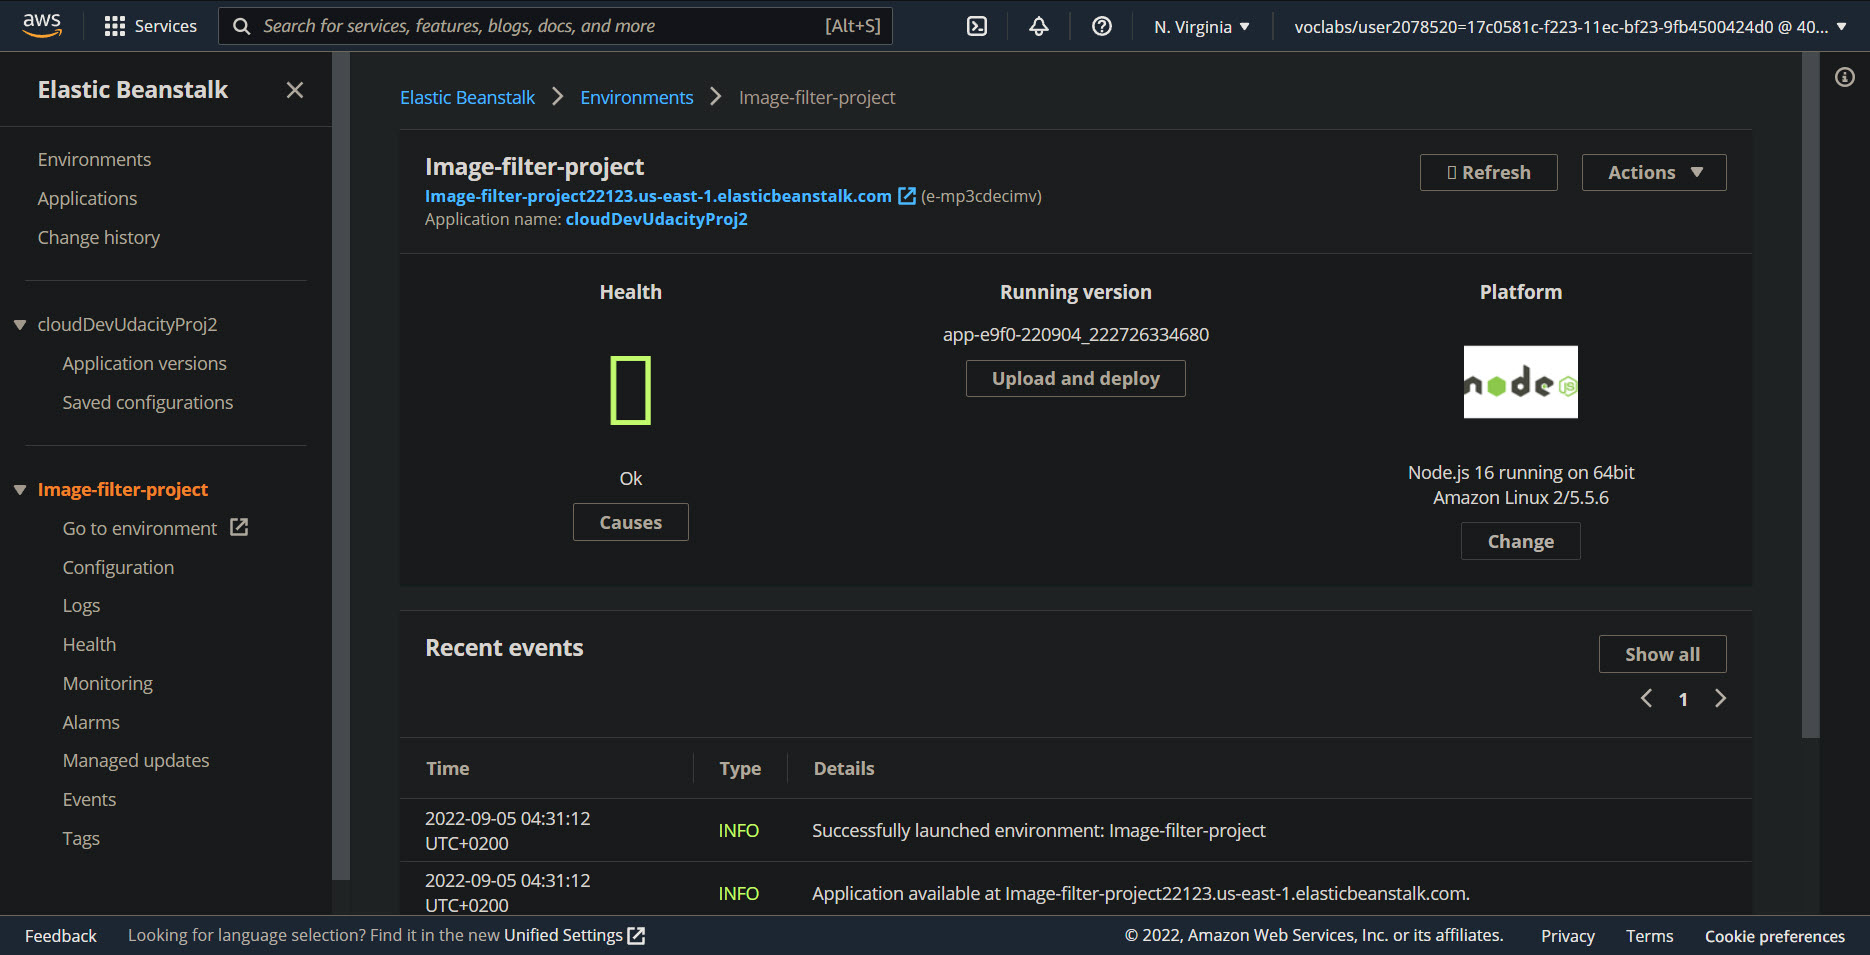
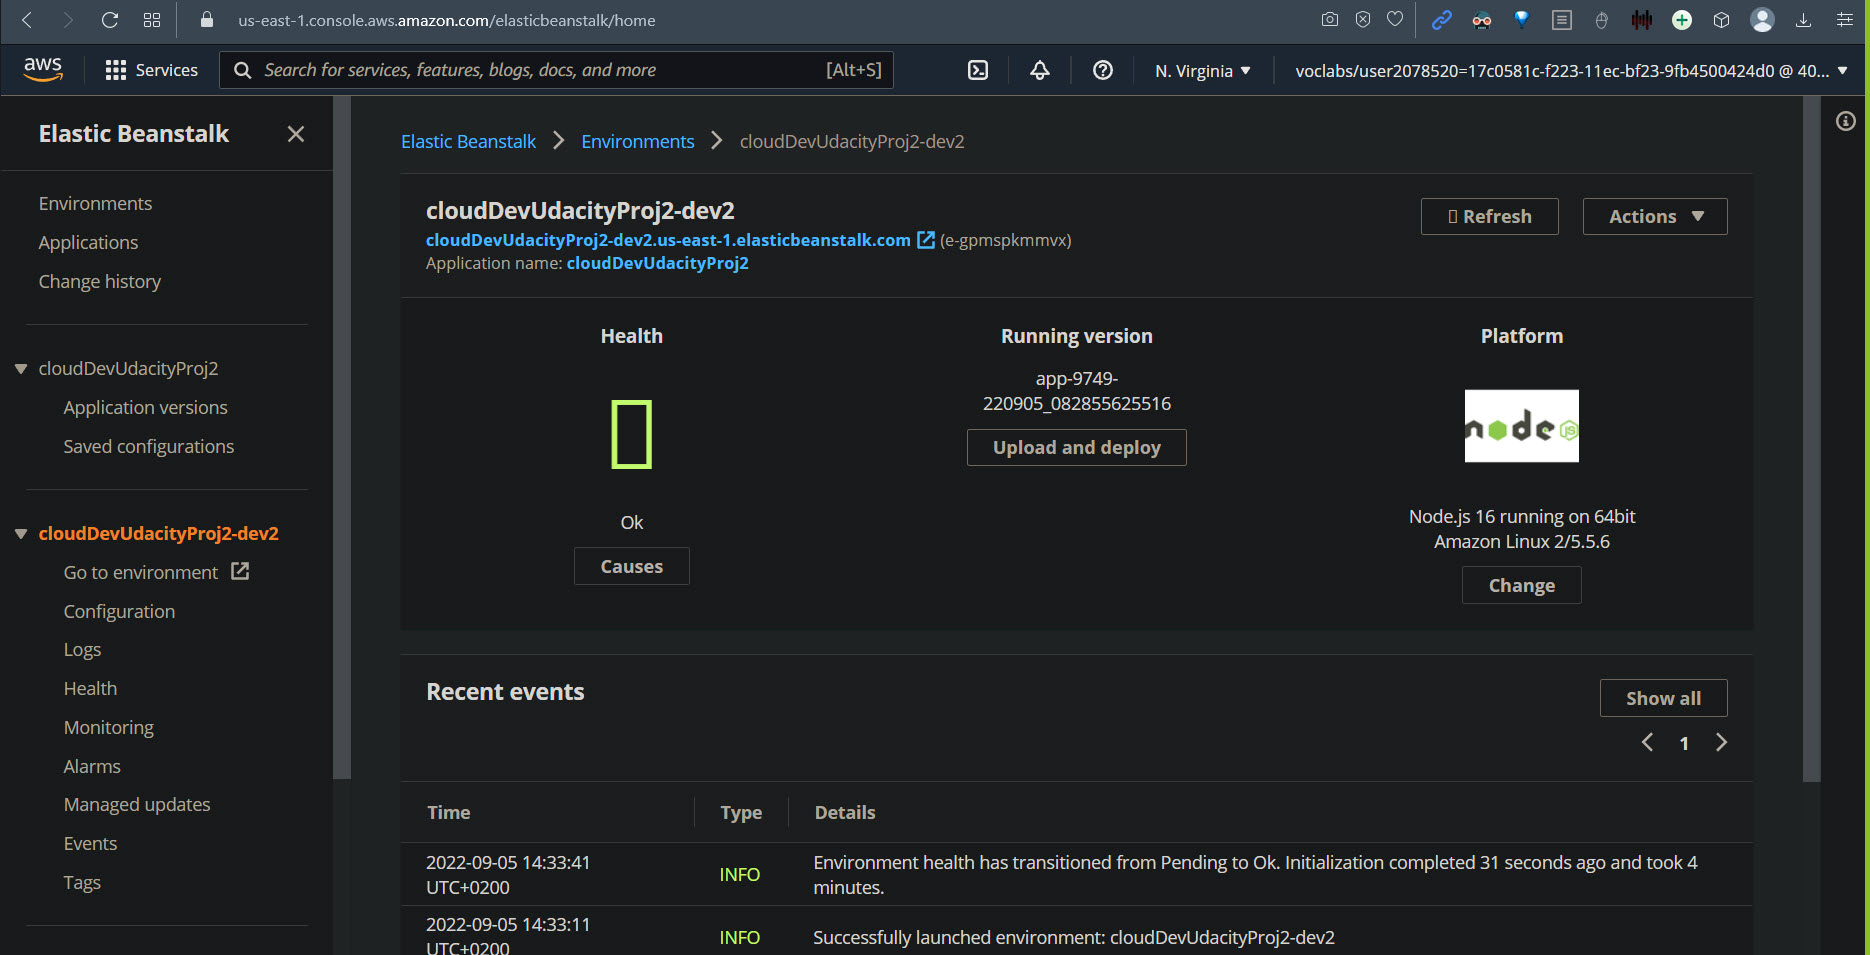
Screenshots added and project 2 tested successfully

diff --git a/src/server.ts b/src/server.ts
@@ -11,34 +11,19 @@ import {filterImageFromURL, deleteLocalFiles} from './util/util';
   const port = process.env.PORT || 8082;
   
   // Use the body parser middleware for post requests
+
+// Code start >>>>
+
   app.use(bodyParser.json());
-
-  // @TODO1 IMPLEMENT A RESTFUL ENDPOINT
-  // GET /filteredimage?image_url={{URL}}
-  // endpoint to filter an image from a public url.
-  // IT SHOULD
-  //    1
-  //    1. validate the image_url query
-  //    2. call filterImageFromURL(image_url) to filter the image
-  //    3. send the resulting file in the response
-  //    4. deletes any files on the server on finish of the response
-  // QUERY PARAMATERS
-  //    image_url: URL of a publicly accessible image
-  // RETURNS
-  //   the filtered image file [!!TIP res.sendFile(filteredpath); might be useful]
-
-  /**************************************************************************** */
-
-  //! END @TODO1
-
-
   app.get('/filteredimage',async(req: Request,res: Response) => {
     const image_url = req.query.image_url.toString();
     if (!image_url){
-      res.status(400).send("The URL provided for the image is needed");
+      res.status(400).send("The URL provided for the image is needed/corrupted");
     }
+
     const filtered_image=await filterImageFromURL(image_url);
     res.status(200).sendFile(filtered_image, () => {
+      console.log(filtered_image);
       deleteLocalFiles([filtered_image]);
     })
   });
@@ -48,6 +33,31 @@ import {filterImageFromURL, deleteLocalFiles} from './util/util';
     res.send("try GET /filteredimage?image_url={{}}")
   } );
   
+
+  // @TODO1 IMPLEMENT A RESTFUL ENDPOINT
+  // GET /filteredimage?image_url={{URL}}
+  // endpoint to filter an image from a public url.
+  // IT SHOULD
+  //    1
+  //    1. validate the image_url query >> implemented at line 17
+  //    2. call filterImageFromURL(image_url) to filter the image >>  implemented at line 21
+  //    3. send the resulting file in the response >> implemented in line 22
+  //    4. deletes any files on the server on finish of the response >> implemented in line 24
+  // QUERY PARAMATERS
+  //    image_url: https://img.youm7.com/large/20220808120649649.jpg
+  //    EB endpoint URL >> http://clouddevudacityproj2-dev2.us-east-1.elasticbeanstalk.com
+  //    
+  //
+  //    Test EB URL with the image >> http://clouddevudacityproj2-dev2.us-east-1.elasticbeanstalk.com/filteredimage?image_url=https://img.youm7.com/large/20220808120649649.jpg
+  //
+  // RETURNS
+  //   the filtered image file [!!TIP res.sendFile(filteredpath); might be useful]
+
+  /**************************************************************************** */
+
+  //! END @TODO1
+
+
 
   // Start the Server
   app.listen( port, () => {

diff --git a/README.md b/README.md
@@ -31,9 +31,11 @@ import {filterImageFromURL, deleteLocalFiles} from './util/util';
 
 Follow the process described in the course to `eb init` a new application and `eb create` a new environment to deploy your image-filter service! Don't forget you can use `eb deploy` to push changes.
 
-# My EB endpoint
 
-http://image-filter-project22123.us-east-1.elasticbeanstalk.com/filteredimage?image_url=https://img.youm7.com/large/20220808120649649.jpg
+# image_url: https://img.youm7.com/large/20220808120649649.jpg
+# EB endpoint URL >> http://clouddevudacityproj2-dev2.us-east-1.elasticbeanstalk.com
+# Test EB URL with the image >> 
+# http://clouddevudacityproj2-dev2.us-east-1.elasticbeanstalk.com/filteredimage?image_url=https://img.youm7.com/large/20220808120649649.jpg
 
 ## Stand Out (Optional)
 
